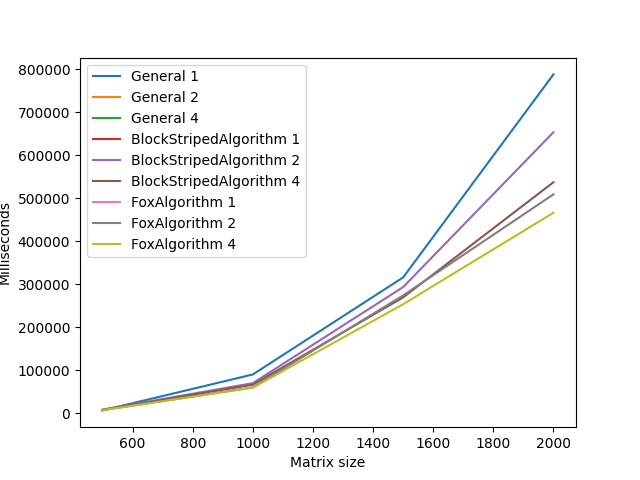
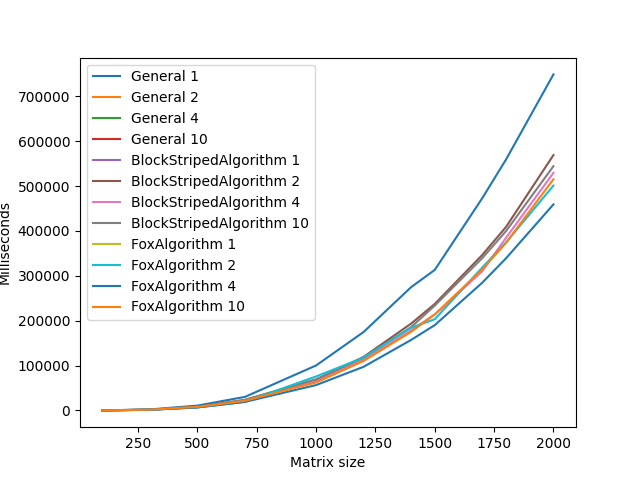
lab2: refactoring in progress

diff --git a/Lab2/Lab2/src/test/java/test/MatrixTester.java b/Lab2/Lab2/src/test/java/test/MatrixTester.java
@@ -45,15 +45,14 @@ public class MatrixTester {
 
     public static void main(String[] args) throws PythonExecutionException, IOException {
             var tester = new MatrixTester();
-            var threadsNums = new int[] {2, 4};
-            var matrixSizes = new int[] {500, 1000, 1500, 2000};
-            var ff = FoxAlgorithm.class;
-            tester.testAlgorithm(threadsNums, matrixSizes);
+            var threadsNums = new int[] {2, 4, 10};
+            var matrixSizes = new int[] {100, 300, 500, 700, 1000, 1200, 1400, 1500, 1700, 1800, 2000};
+            //tester.testAlgorithm(threadsNums, matrixSizes);
             tester.plotStatistic();
             tester.plotSpeedup();
     }
 
-    public void plotStatistic() throws PythonExecutionException, IOException {
+    public void plotStatistic() throws IOException, PythonExecutionException {
         Plot plt = Plot.create();
         var results = readStatistic();
         var algorithms = results.stream().map(r -> r.name).distinct().toList();
